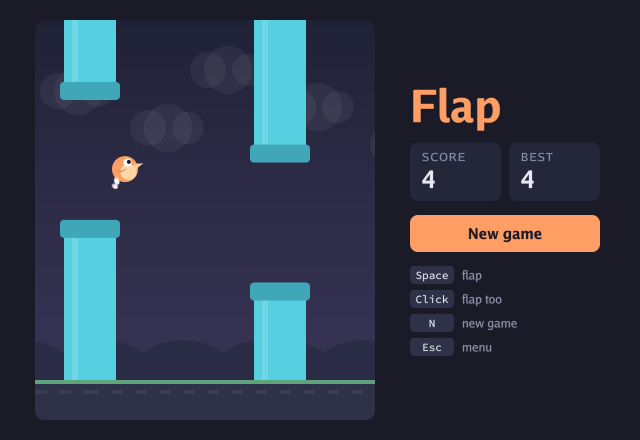
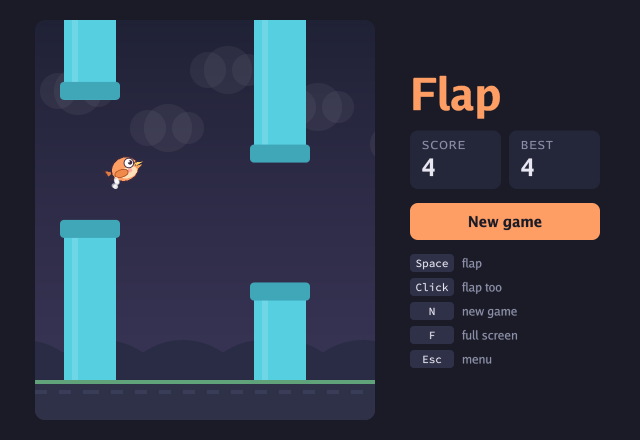
feat(games): a nicer bird for Flap, still drawn in code
An outline, a belly, tail feathers, a wing that flutters and beats after a
flap, an eye with a highlight, a blush and a two-part beak, all shapes on
the canvas, so the game ships no picture.

Claude-Session: https://claude.ai/code/session_01VHNcRma4zqYcvCChgFz3tz

Changed region(s): [[0.625, 0.1773, 0.9375, 0.8568], [0.1562, 0.3545, 0.2188, 0.4136]]

diff --git a/games/flap/main.go b/games/flap/main.go
@@ -208,7 +208,7 @@ func (s *Sky) Draw(c *twod.Canvas) {
 		c.Rect(geom.Rect{X: x, Y: Height - Ground + 10, W: 12, H: 4}, color.Hex("#3a3d58"))
 	}
 
-	drawBird(c, geom.V2(BirdX, g.Y), g.VY, p.flapped)
+	drawBird(c, geom.V2(BirdX, g.Y), g.VY, p.flapped, p.time)
 }
 
 func drawPipe(c *twod.Canvas, p Pipe) {
@@ -223,22 +223,57 @@ func drawPipe(c *twod.Canvas, p Pipe) {
 }
 
 // drawBird draws the bird at at, tilted up while it rises and down as it
-// falls, its wing beating just after a flap.
-func drawBird(c *twod.Canvas, at geom.Vec2, vy, flapped float32) {
+// falls, its wing fluttering and beating hard just after a flap.
+func drawBird(c *twod.Canvas, at geom.Vec2, vy, flapped, time float32) {
 	tilt := float64(min(max(vy/600, -0.5), 1.1))
+	sin, cos := math.Sincos(tilt)
 	turn := func(v geom.Vec2) geom.Vec2 {
-		sin, cos := math.Sincos(tilt)
 		return at.Add(geom.V2(v.X*float32(cos)-v.Y*float32(sin), v.X*float32(sin)+v.Y*float32(cos)))
 	}
-	c.Circle(at, Radius+1, color.Hex("#ff9e64"))
-	c.Circle(turn(geom.V2(2, 4)), Radius-4, color.Hex("#ffd6a5"))
-	beat := float32(math.Sin(float64(min(flapped*18, math.Pi*2))))
-	wing := []geom.Vec2{turn(geom.V2(-8, 0)), turn(geom.V2(4, 0)), turn(geom.V2(-4, 8-12*beat))}
-	c.Triangles(wing, []int{0, 1, 2}, color.Hex("#e07a3f"))
-	c.Circle(turn(geom.V2(5, -5)), 4, color.Hex("#ffffff"))
-	c.Circle(turn(geom.V2(6.5, -5)), 2, color.Hex(look.Background))
-	beak := []geom.Vec2{turn(geom.V2(10, -1)), turn(geom.V2(19, 2)), turn(geom.V2(10, 5))}
-	c.Triangles(beak, []int{0, 1, 2}, color.Hex("#f2cc8f"))
+	oval := func(centre geom.Vec2, rx, ry, angle float32, col color.Color) {
+		const n = 18
+		points := []geom.Vec2{turn(centre)}
+		var tris []int
+		for i := range n + 1 {
+			a := float64(i) * 2 * math.Pi / n
+			v := geom.V2(rx*float32(math.Cos(a)), ry*float32(math.Sin(a)))
+			s, c := math.Sincos(float64(angle))
+			v = geom.V2(v.X*float32(c)-v.Y*float32(s), v.X*float32(s)+v.Y*float32(c))
+			points = append(points, turn(centre.Add(v)))
+			if i > 0 {
+				tris = append(tris, 0, i, i+1)
+			}
+		}
+		c.Triangles(points, tris, col)
+	}
+	tri := func(a, b, d geom.Vec2, col color.Color) {
+		c.Triangles([]geom.Vec2{turn(a), turn(b), turn(d)}, []int{0, 1, 2}, col)
+	}
+	ink := color.Hex("#3b2a3f")
+
+	tri(geom.V2(-12, -3), geom.V2(-22, -9), geom.V2(-20, 0), ink)
+	tri(geom.V2(-12, 1), geom.V2(-21, 4), geom.V2(-14, 6), ink)
+	tri(geom.V2(-12, -2), geom.V2(-19, -6), geom.V2(-18, 0), color.Hex("#e07a3f"))
+	oval(geom.V2(0, 0), 15, 13, 0, ink)
+	oval(geom.V2(0, 0), 13.5, 11.5, 0, color.Hex("#ff9e64"))
+	oval(geom.V2(2, 4.5), 9, 5.5, 0, color.Hex("#ffe0b8"))
+	c.Circle(turn(geom.V2(4, 3)), 2.2, color.Hex("#ff6b8b").Alpha(0.45))
+
+	beat := -0.4 + 0.25*float32(math.Sin(float64(time*12)))
+	if flapped < 0.25 {
+		beat = -0.4 + 1.3*float32(math.Sin(float64(flapped/0.25*math.Pi)))
+	}
+	oval(geom.V2(-5, 2.5), 7.5, 4.2, beat, color.Hex("#b85a2a"))
+	oval(geom.V2(-5, 2.5), 6.3, 3.2, beat, color.Hex("#f08a4b"))
+
+	c.Circle(turn(geom.V2(6, -4)), 5.2, ink)
+	c.Circle(turn(geom.V2(6, -4)), 4.3, color.Hex("#ffffff"))
+	c.Circle(turn(geom.V2(7.4, -4)), 2.2, ink)
+	c.Circle(turn(geom.V2(6.6, -5.2)), 0.9, color.Hex("#ffffff"))
+
+	tri(geom.V2(11, -3), geom.V2(21, 0.5), geom.V2(11, 2.5), ink)
+	tri(geom.V2(11.5, -2), geom.V2(19.5, 0.5), geom.V2(11.5, 1.5), color.Hex("#ffd166"))
+	tri(geom.V2(11, 1.5), geom.V2(18, 2.5), geom.V2(11, 5.5), color.Hex("#f4a259"))
 }
 
 func wrap(x, n float32) float32 { return x - n*float32(math.Floor(float64(x/n))) }
